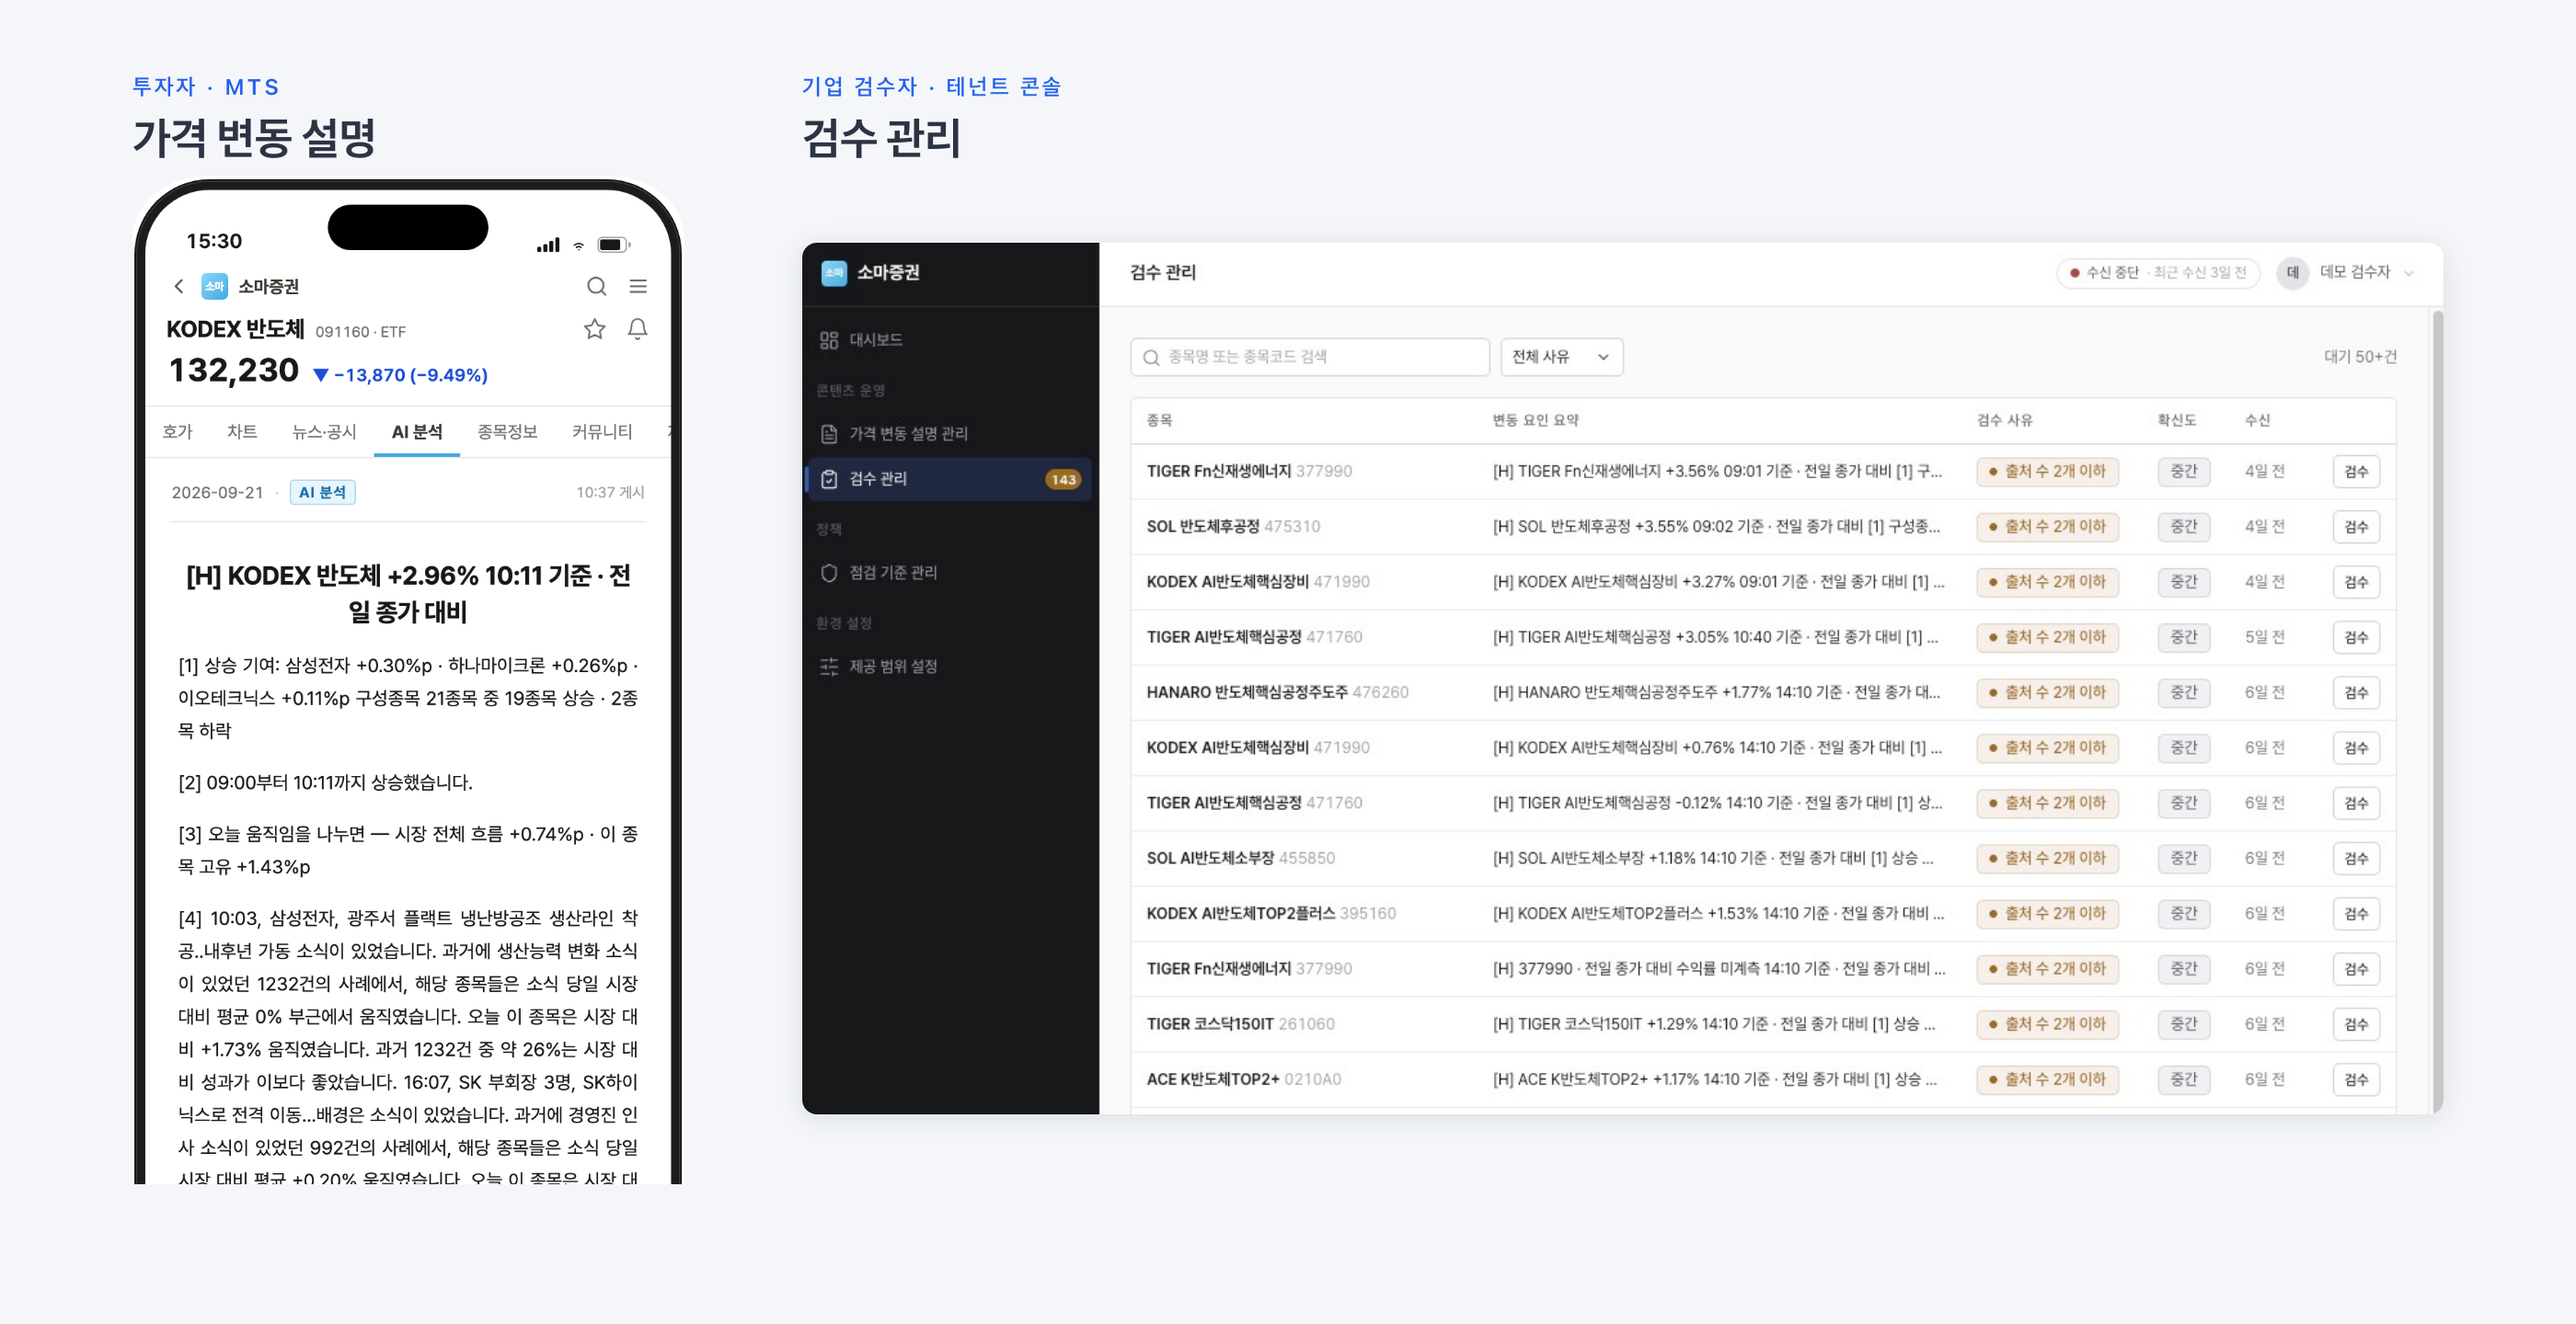
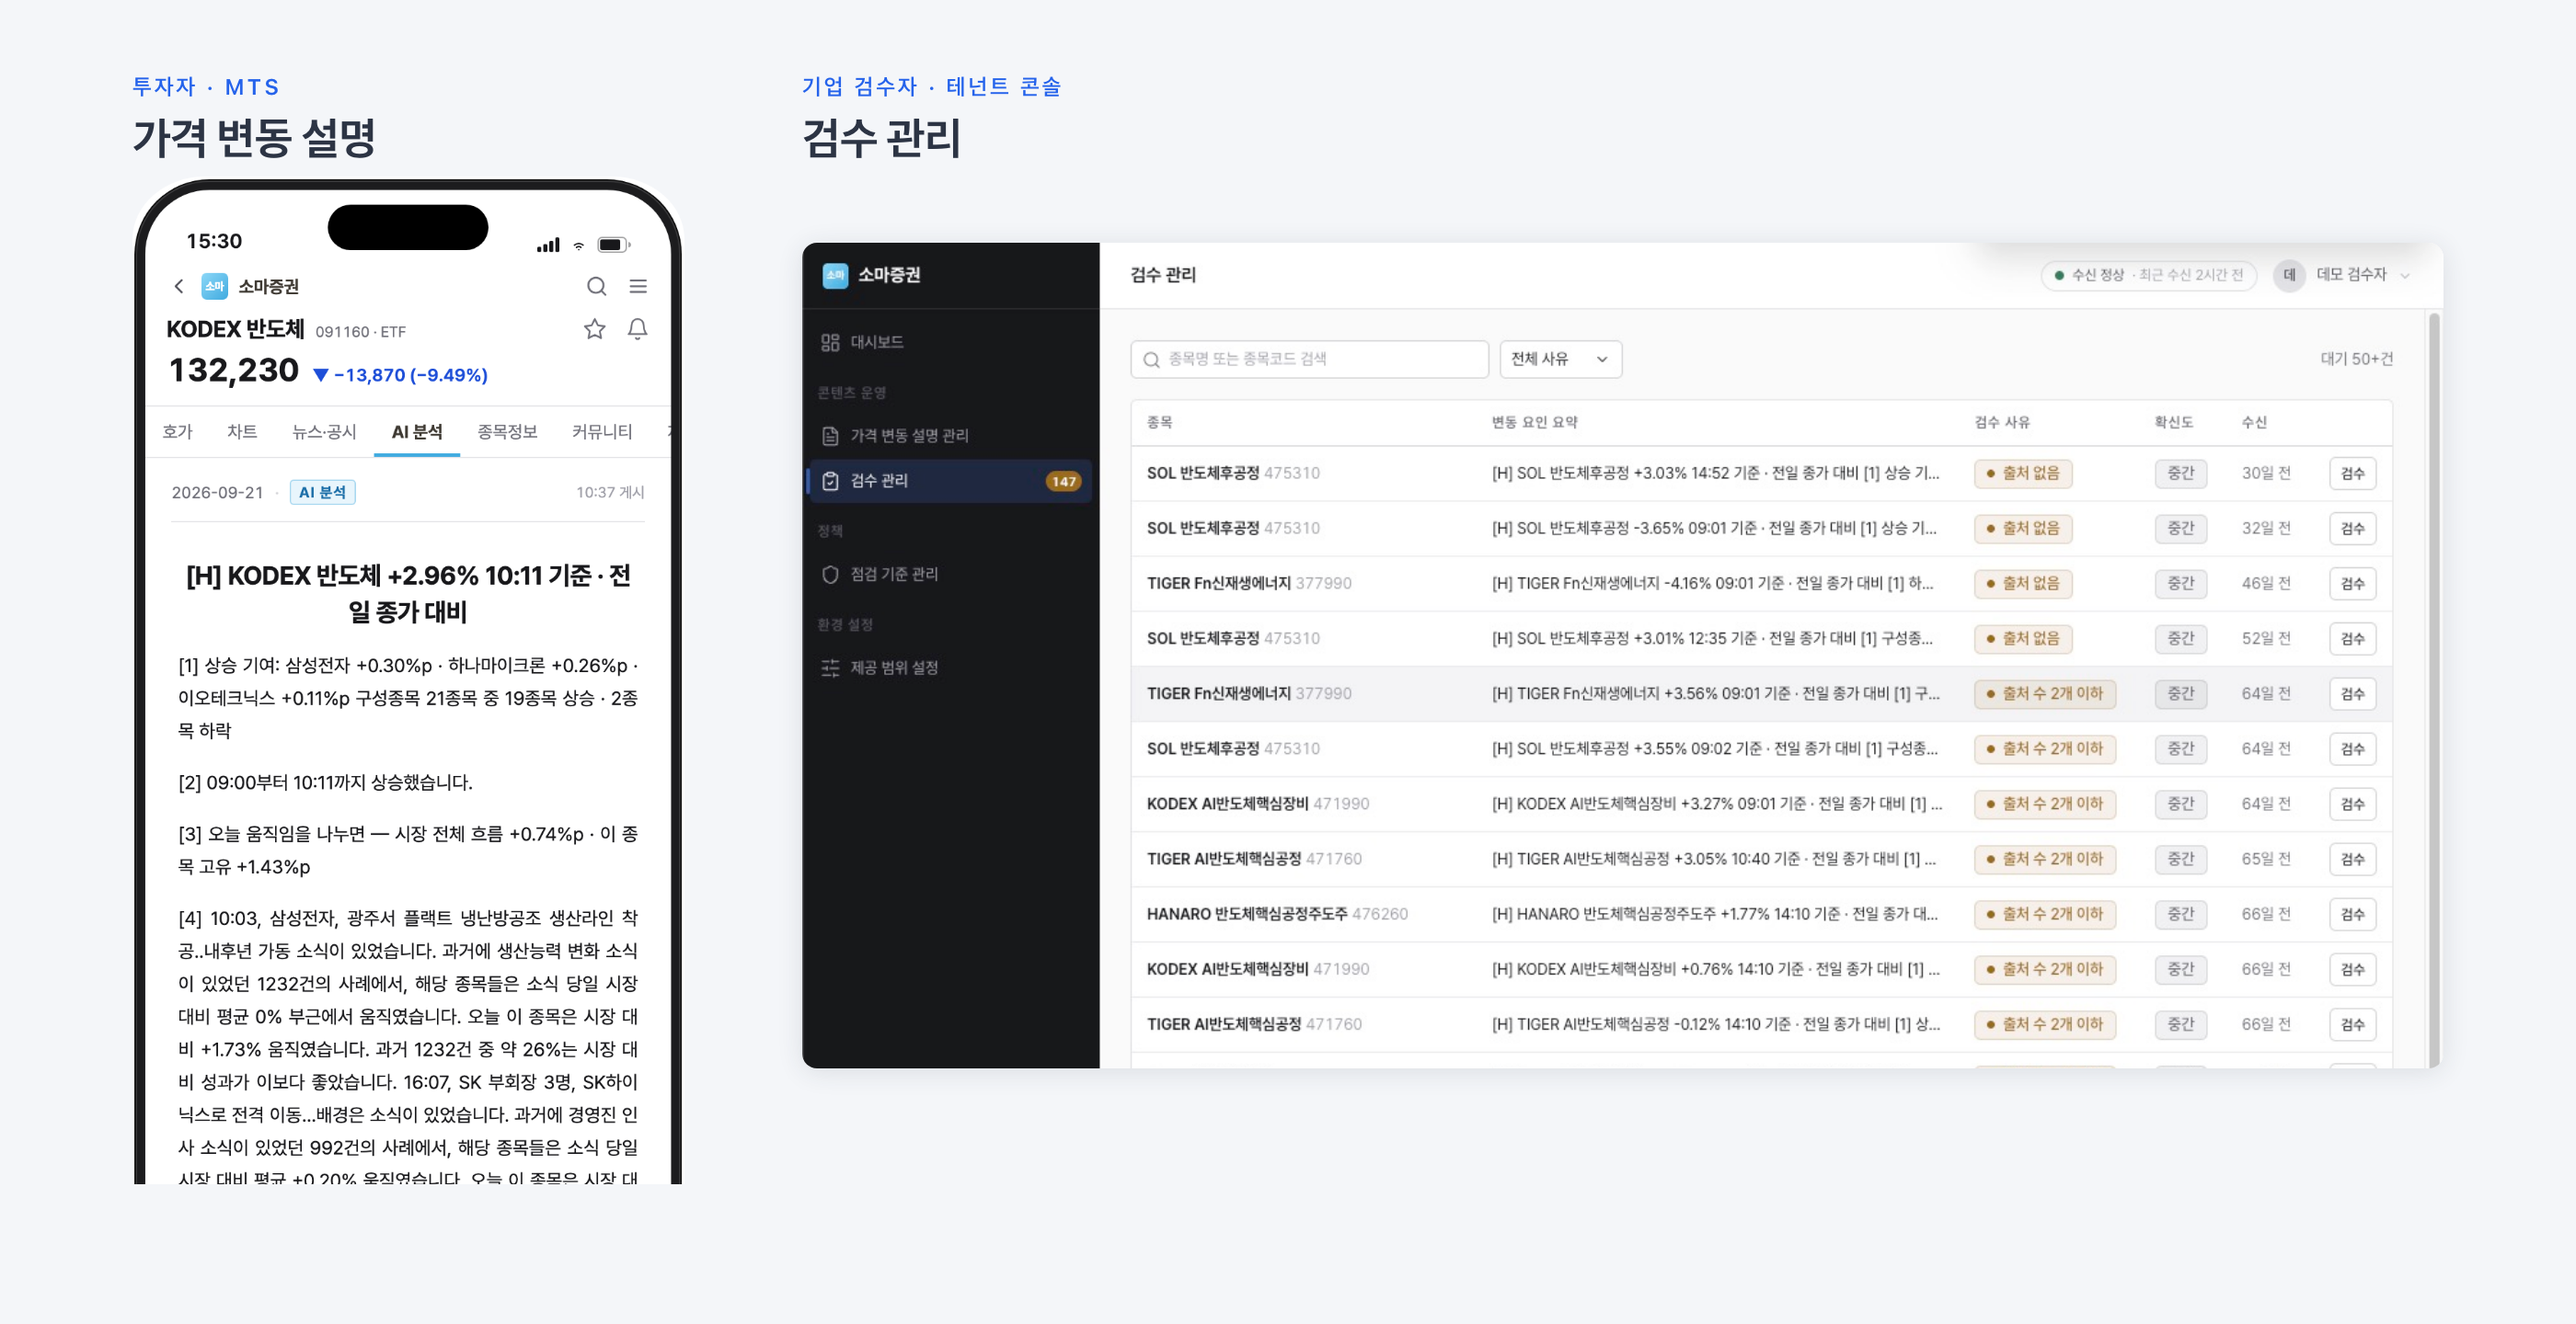
docs(repo): SIGNAL 가로 그림의 검수 관리 콘솔을 10-16 새 캡처로 교체
옛 캡처의 "수신 중단 · 최근 수신 3일 전" 배지를 "수신 정상" 인
2026-10-16 캡처로 바꾼다. 캡처가 세로로 길어 strip.html 에서
위쪽(헤더·필터·첫 행들)만 보이게 자른다. 옛 04-review-queue.jpg 는
세로 showcase 가 계속 쓴다.

diff --git a/docs/assets/readme/showcase/strip.html b/docs/assets/readme/showcase/strip.html
@@ -7,7 +7,7 @@
   이 가로 한 장은 ORCA 의 orca-screens.png(2800x1440) 와 짝을 맞춘다.
   스크린샷 원본은 이 폴더의 07(폰: demo-mts 의 KODEX 반도체 2026-09-21 게시분,
   `/?ticker=091160&trade_date=2026-09-21` 를 헤드리스 Chrome 700x1000·2x 로 찍어 베젤만 잘라낸 825x1743)과
-  04(검수 관리 콘솔)다. 다시 뽑는 법:
+  04-review-queue-20261016(검수 관리 콘솔, 2026-10-16 캡처)이다. 다시 뽑는 법:
 
     "/Applications/Google Chrome.app/Contents/MacOS/Google Chrome" \
       --headless --disable-gpu --hide-scrollbars --force-device-scale-factor=2 \
@@ -31,8 +31,8 @@
   /* 폰은 ORCA 그림처럼 하단을 잘라 보인다(본문이 화면보다 길어 자연스럽게 이어진다). */
   .phone { width:300px; height:548px; overflow:hidden; border-radius:13.1% 13.1% 0 0 / 6.2% 6.2% 0 0; }
   .phone img { display:block; width:300px; height:auto; }
-  /* 콘솔은 자연 비율(1.88:1) 그대로. 폰 열과 높이를 맞추려 아래 여백을 둔다. */
-  .console { width:100%; border-radius:8px; overflow:hidden; box-shadow:0 2px 14px rgba(44,52,68,.12); background:#fff; margin-top:36px; }
+  /* 콘솔 캡처(2026-10-16, 1280x1289)는 세로가 길어 위쪽만 보인다. 높이 449 = 폭 844 x 678/1276, 옛 패널 비율. */
+  .console { width:100%; height:449px; border-radius:8px; overflow:hidden; box-shadow:0 2px 14px rgba(44,52,68,.12); background:#fff; margin-top:36px; }
   .console img { display:block; width:100%; height:auto; }
 </style>
 <div class="row">
@@ -42,6 +42,6 @@
   </div>
   <div>
     <div class="cap"><p class="role">기업 검수자 · 테넌트 콘솔</p><h2>검수 관리</h2></div>
-    <div class="console"><img src="04-review-queue.jpg" alt="테넌트 콘솔 검수 관리"></div>
+    <div class="console"><img src="04-review-queue-20261016.jpg" alt="테넌트 콘솔 검수 관리"></div>
   </div>
 </div>
